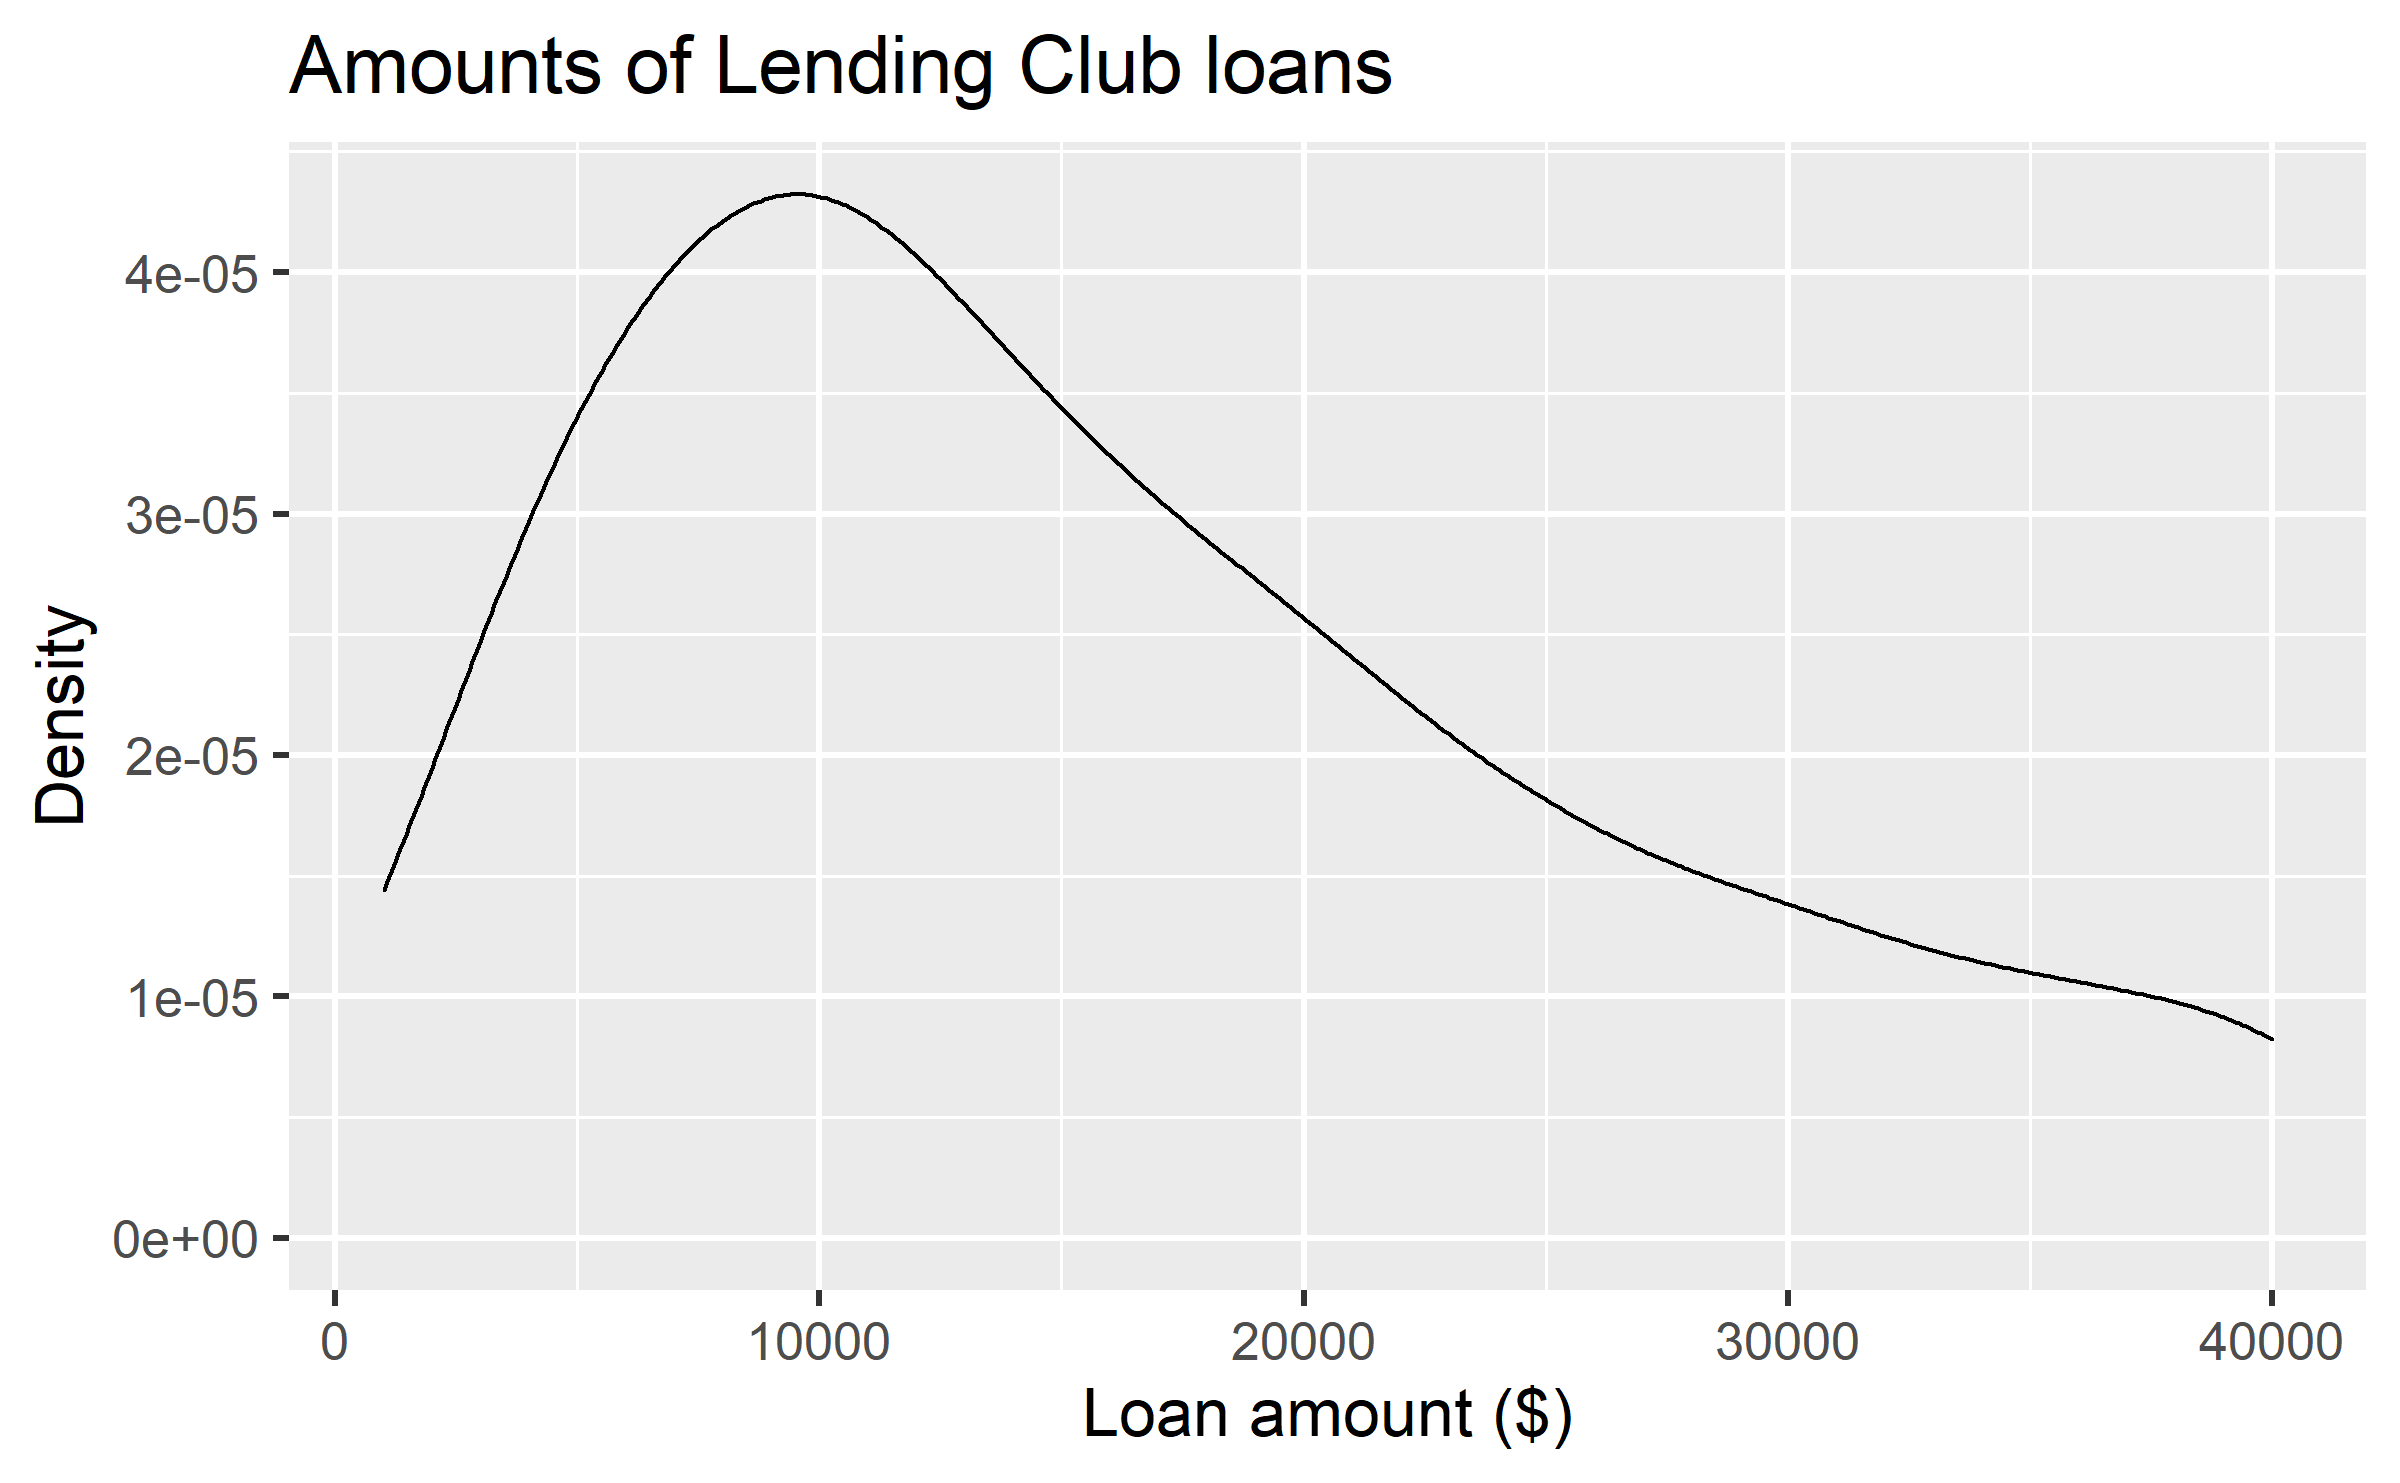
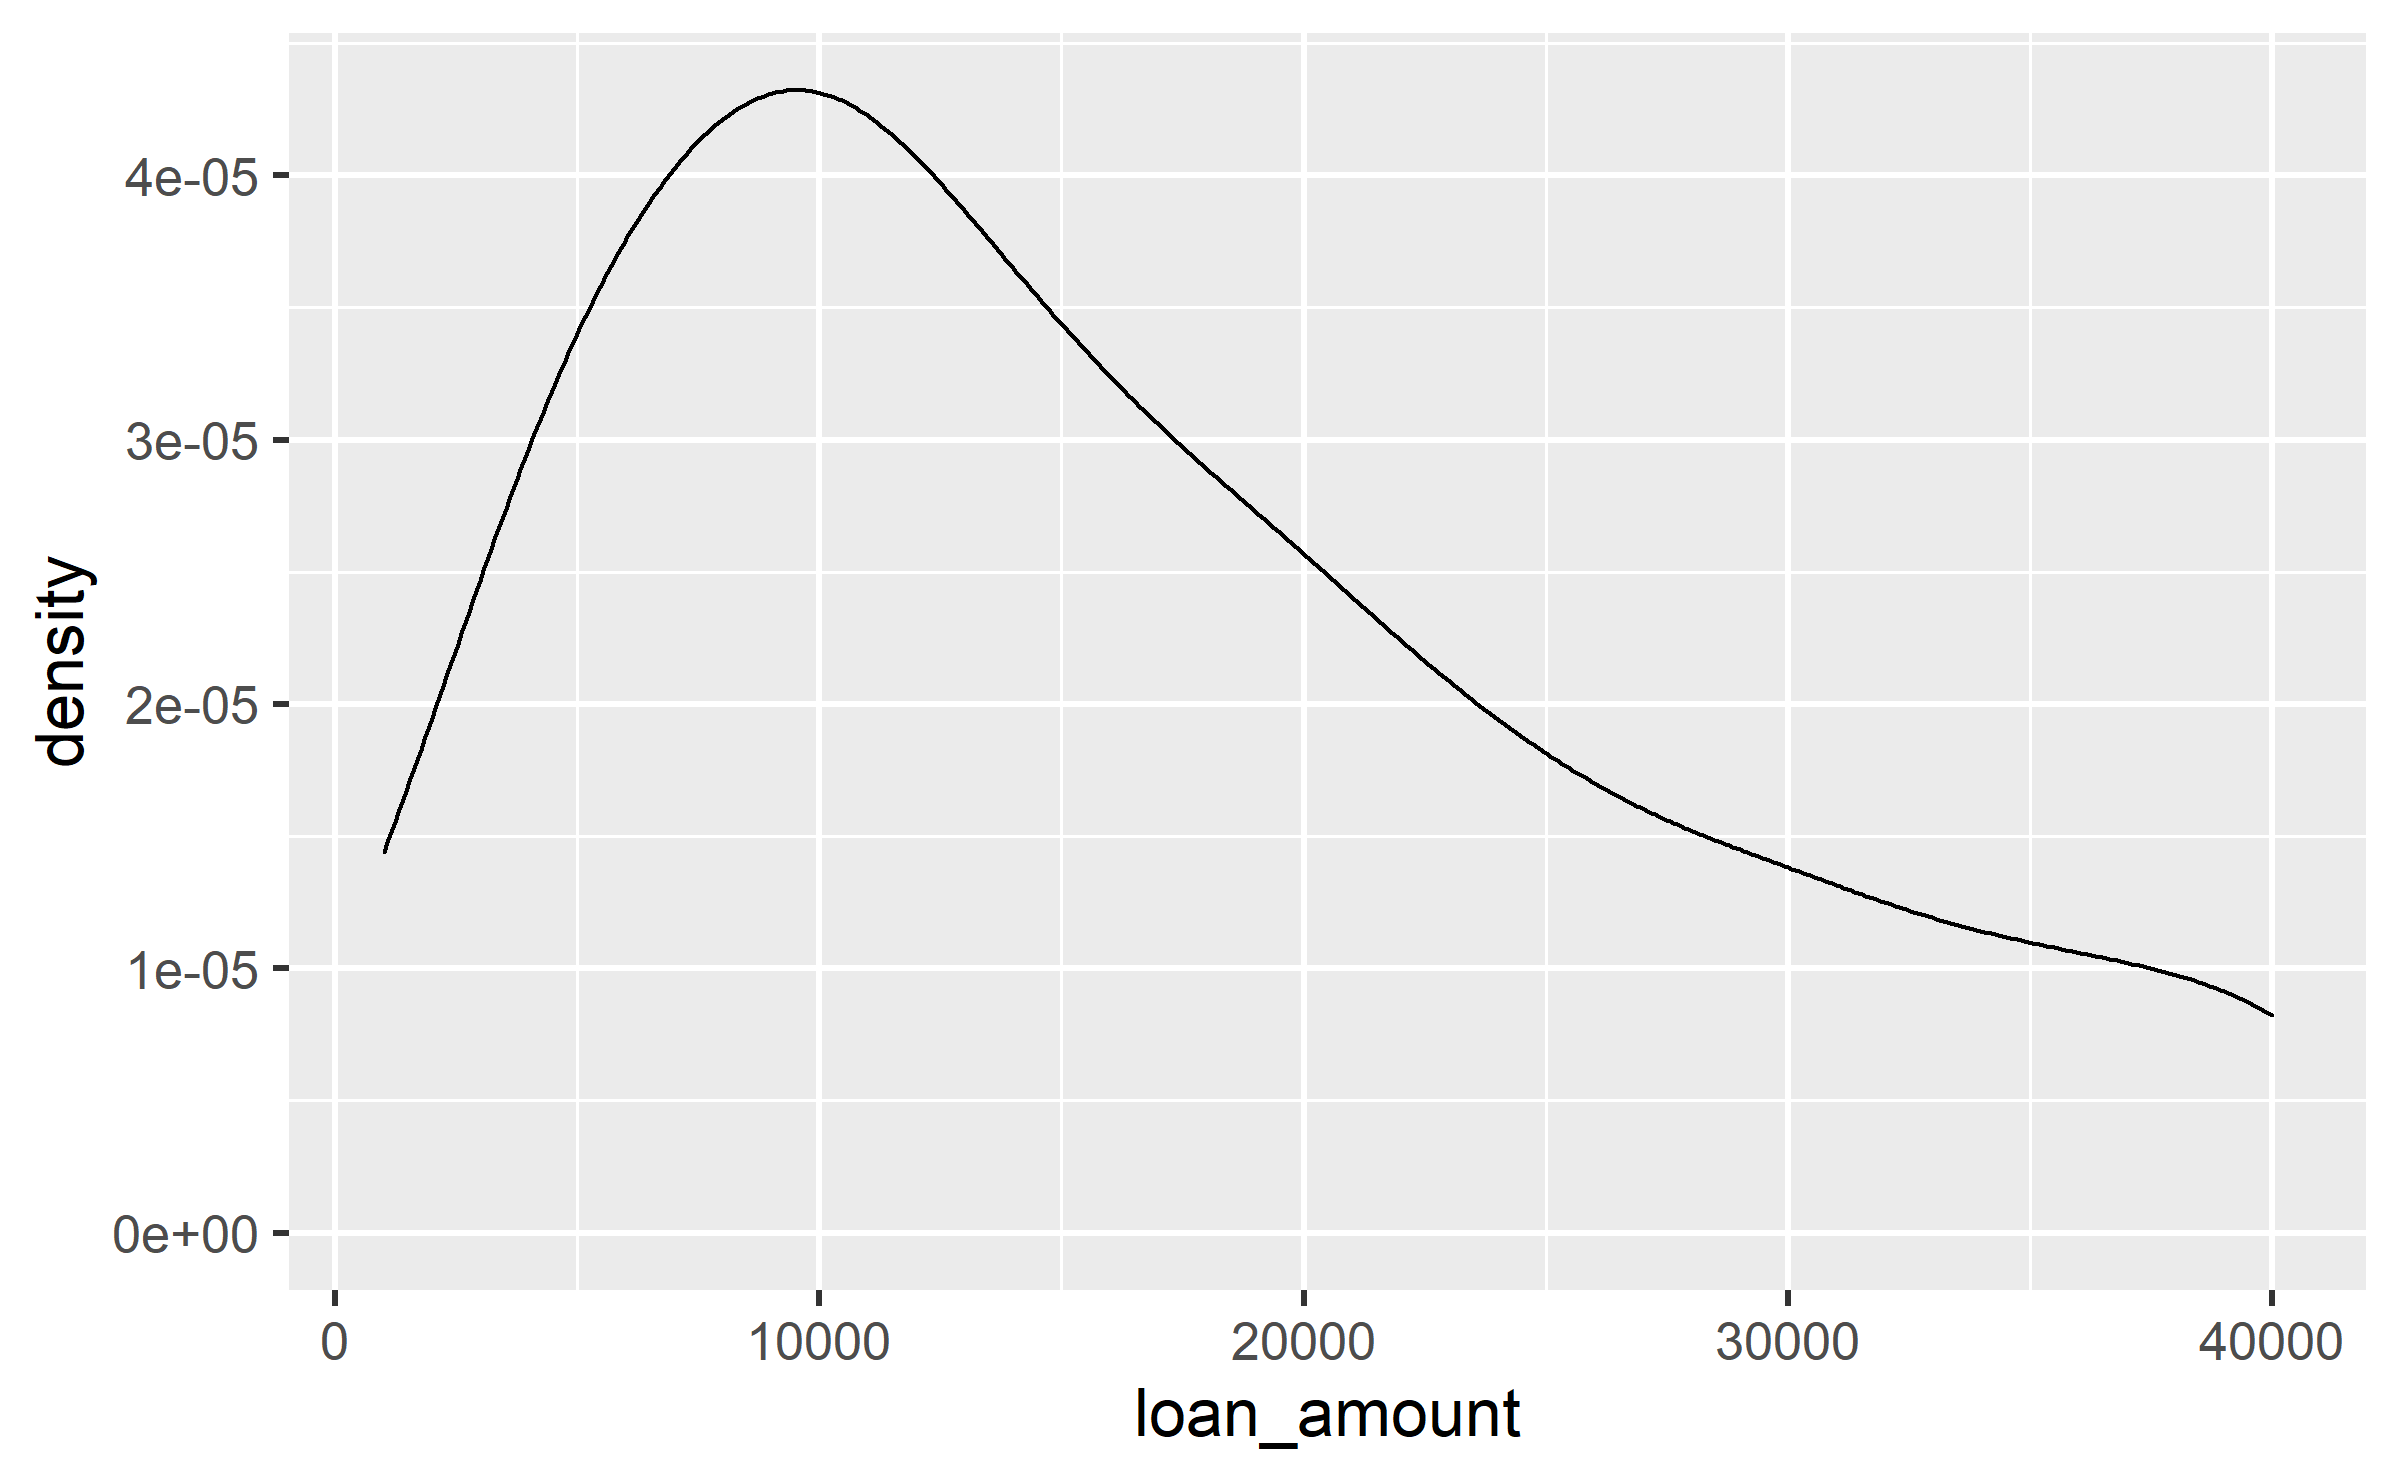
vizualization slides

diff --git a/slides/02-data-viz/d02-viz-num.html b/slides/02-data-viz/d02-viz-num.html
@@ -300,12 +300,33 @@ ggplot(data = loans, mapping = aes(x = loan_amount)) +
 ]
 
 ---
-
-## Fill with a categorical variable
+## Adding a categorical variable: color
 
 .panelset[
 .panel[.panel-name[Plot]
 &lt;img src="d02-viz-num_files/figure-html/unnamed-chunk-10-1.png" width="50%" style="display: block; margin: auto;" /&gt;
+]
+.panel[.panel-name[Code]
+
+```r
+ggplot(data = loans, mapping = aes(x = loan_amount, 
+*                 color = homeownership)) +
+  geom_histogram(binwidth = 5000,
+                 alpha = 0.5) + #&lt;&lt; controls transparency of color
+  labs(
+    x = "Loan amount ($)",
+    y = "Frequency",
+    title = "Amounts of Lending Club loans"
+  )
+```
+]
+]
+---
+## Adding a categorical variable: fill
+
+.panelset[
+.panel[.panel-name[Plot]
+&lt;img src="d02-viz-num_files/figure-html/unnamed-chunk-11-1.png" width="50%" style="display: block; margin: auto;" /&gt;
 ]
 .panel[.panel-name[Code]
 
@@ -325,11 +346,11 @@ ggplot(data = loans, mapping = aes(x = loan_amount,
 
 ---
 
-## Facet with a categorical variable
+## Adding a categorical variable: facet
 
 .panelset[
 .panel[.panel-name[Plot]
-&lt;img src="d02-viz-num_files/figure-html/unnamed-chunk-11-1.png" width="50%" style="display: block; margin: auto;" /&gt;
+&lt;img src="d02-viz-num_files/figure-html/unnamed-chunk-12-1.png" width="50%" style="display: block; margin: auto;" /&gt;
 ]
 .panel[.panel-name[Code]
 
@@ -376,7 +397,7 @@ ggplot(data = loans, mapping = aes(x = loan_amount)) +
   geom_density(adjust = 0.5)
 ```
 
-&lt;img src="d02-viz-num_files/figure-html/unnamed-chunk-12-1.png" width="50%" style="display: block; margin: auto;" /&gt;
+&lt;img src="d02-viz-num_files/figure-html/unnamed-chunk-13-1.png" width="50%" style="display: block; margin: auto;" /&gt;
 ]
 .panel[.panel-name[adjust = 1]
 
@@ -385,7 +406,7 @@ ggplot(data = loans, mapping = aes(x = loan_amount)) +
   geom_density(adjust = 1) # use the default bandwidth
 ```
 
-&lt;img src="d02-viz-num_files/figure-html/unnamed-chunk-13-1.png" width="50%" style="display: block; margin: auto;" /&gt;
+&lt;img src="d02-viz-num_files/figure-html/unnamed-chunk-14-1.png" width="50%" style="display: block; margin: auto;" /&gt;
 ]
 .panel[.panel-name[adjust = 2]
 
@@ -394,7 +415,7 @@ ggplot(loans, aes(x = loan_amount)) +
   geom_density(adjust = 2)
 ```
 
-&lt;img src="d02-viz-num_files/figure-html/unnamed-chunk-14-1.png" width="50%" style="display: block; margin: auto;" /&gt;
+&lt;img src="d02-viz-num_files/figure-html/unnamed-chunk-15-1.png" width="50%" style="display: block; margin: auto;" /&gt;
 ]
 ]
 
@@ -404,7 +425,7 @@ ggplot(loans, aes(x = loan_amount)) +
 
 .panelset[
 .panel[.panel-name[Plot]
-&lt;img src="d02-viz-num_files/figure-html/unnamed-chunk-15-1.png" width="60%" style="display: block; margin: auto;" /&gt;
+&lt;img src="d02-viz-num_files/figure-html/unnamed-chunk-16-1.png" width="60%" style="display: block; margin: auto;" /&gt;
 ]
 .panel[.panel-name[Code]
 
@@ -422,11 +443,11 @@ ggplot(data = loans, mapping = aes(x = loan_amount)) +
 
 ---
 
-## Adding a categorical variable
+## Adding a categorical variable: fill
 
 .panelset[
 .panel[.panel-name[Plot]
-&lt;img src="d02-viz-num_files/figure-html/unnamed-chunk-16-1.png" width="60%" style="display: block; margin: auto;" /&gt;
+&lt;img src="d02-viz-num_files/figure-html/unnamed-chunk-17-1.png" width="60%" style="display: block; margin: auto;" /&gt;
 ]
 .panel[.panel-name[Code]
 
@@ -438,8 +459,7 @@ ggplot(data = loans, mapping = aes(x = loan_amount,
   labs(
     x = "Loan amount ($)",
     y = "Density",
-    title = "Amounts of Lending Club loans", 
-*   fill = "Homeownership"
+    title = "Amounts of Lending Club loans"
   )
 ```
 ]
@@ -451,15 +471,16 @@ ggplot(data = loans, mapping = aes(x = loan_amount,
 
 .panelset[
 .panel[.panel-name[Plot]
-&lt;img src="d02-viz-num_files/figure-html/unnamed-chunk-17-1.png" width="40%" style="display: block; margin: auto;" /&gt;
+&lt;img src="d02-viz-num_files/figure-html/unnamed-chunk-18-1.png" width="70%" style="display: block; margin: auto;" /&gt;
 ]
 .panel[.panel-name[Code]
 
 ```r
 *library(ggridges)
 ggplot(data = loans, mapping = aes(x = loan_amount, 
-*                 y = homeownership)) +
-* geom_density_ridges(bandwidth = 2500 ) +
+                  fill = homeownership,
+*                 y = homeownership )) +
+* geom_density_ridges( bandwidth = 2500) +
   labs(
     x = "Loan amount ($)",
     y = "Density",
@@ -492,7 +513,7 @@ ggplot(data = loans, mapping = aes(x = interest_rate)) +
 
 .panelset[
 .panel[.panel-name[Plot]
-&lt;img src="d02-viz-num_files/figure-html/unnamed-chunk-18-1.png" width="60%" style="display: block; margin: auto;" /&gt;
+&lt;img src="d02-viz-num_files/figure-html/unnamed-chunk-19-1.png" width="60%" style="display: block; margin: auto;" /&gt;
 ]
 .panel[.panel-name[Code]
 
@@ -517,7 +538,7 @@ ggplot(data = loans, mapping = aes(x = interest_rate)) +
 
 .panelset[
 .panel[.panel-name[Plot]
-&lt;img src="d02-viz-num_files/figure-html/unnamed-chunk-19-1.png" width="60%" style="display: block; margin: auto;" /&gt;
+&lt;img src="d02-viz-num_files/figure-html/unnamed-chunk-20-1.png" width="60%" style="display: block; margin: auto;" /&gt;
 ]
 .panel[.panel-name[Code]
 
@@ -563,7 +584,7 @@ ggplot(data = loans, mapping = aes(x = annual_income, y=loan_amount, color = hom
   geom_point()
 ```
 
-&lt;img src="d02-viz-num_files/figure-html/unnamed-chunk-20-1.png" width="60%" style="display: block; margin: auto;" /&gt;
+&lt;img src="d02-viz-num_files/figure-html/unnamed-chunk-21-1.png" width="60%" style="display: block; margin: auto;" /&gt;
 ---
 
 .left-column[#<svg aria-hidden="true" role="img" viewBox="0 0 640 512" style="height:1em;width:1.25em;vertical-align:-0.125em;margin-left:auto;margin-right:auto;font-size:inherit;fill:white;overflow:visible;position:relative;"><path d="M255.03 261.65c6.25 6.25 16.38 6.25 22.63 0l11.31-11.31c6.25-6.25 6.25-16.38 0-22.63L253.25 192l35.71-35.72c6.25-6.25 6.25-16.38 0-22.63l-11.31-11.31c-6.25-6.25-16.38-6.25-22.63 0l-58.34 58.34c-6.25 6.25-6.25 16.38 0 22.63l58.35 58.34zm96.01-11.3l11.31 11.31c6.25 6.25 16.38 6.25 22.63 0l58.34-58.34c6.25-6.25 6.25-16.38 0-22.63l-58.34-58.34c-6.25-6.25-16.38-6.25-22.63 0l-11.31 11.31c-6.25 6.25-6.25 16.38 0 22.63L386.75 192l-35.71 35.72c-6.25 6.25-6.25 16.38 0 22.63zM624 416H381.54c-.74 19.81-14.71 32-32.74 32H288c-18.69 0-33.02-17.47-32.77-32H16c-8.8 0-16 7.2-16 16v16c0 35.2 28.8 64 64 64h512c35.2 0 64-28.8 64-64v-16c0-8.8-7.2-16-16-16zM576 48c0-26.4-21.6-48-48-48H112C85.6 0 64 21.6 64 48v336h512V48zm-64 272H128V64h384v256z"/></svg>]
@@ -577,7 +598,7 @@ ggplot(data = loans, mapping = aes(x = annual_income, y=loan_amount, color = hom
 ]
 
 
- <div class="countdown" id="timer_62ce3ba5" style="right:0;bottom:0;" data-warnwhen="0">
+ <div class="countdown" id="timer_62cf7bc2" style="right:0;bottom:0;" data-warnwhen="0">
 <code class="countdown-time"><span class="countdown-digits minutes">40</span><span class="countdown-digits colon">:</span><span class="countdown-digits seconds">00</span></code>
 </div>
 

diff --git a/slides/01-hello-world/hello-world.html b/slides/01-hello-world/hello-world.html
@@ -41,6 +41,7 @@
     </style>
 
 
+
 <style type="text/css">
   code {
     white-space: pre;
@@ -164,6 +165,9 @@ button.code-folding-btn:focus {
 }
 summary {
   display: list-item;
+}
+details > summary > p:only-child {
+  display: inline;
 }
 pre code {
   padding: 0;
